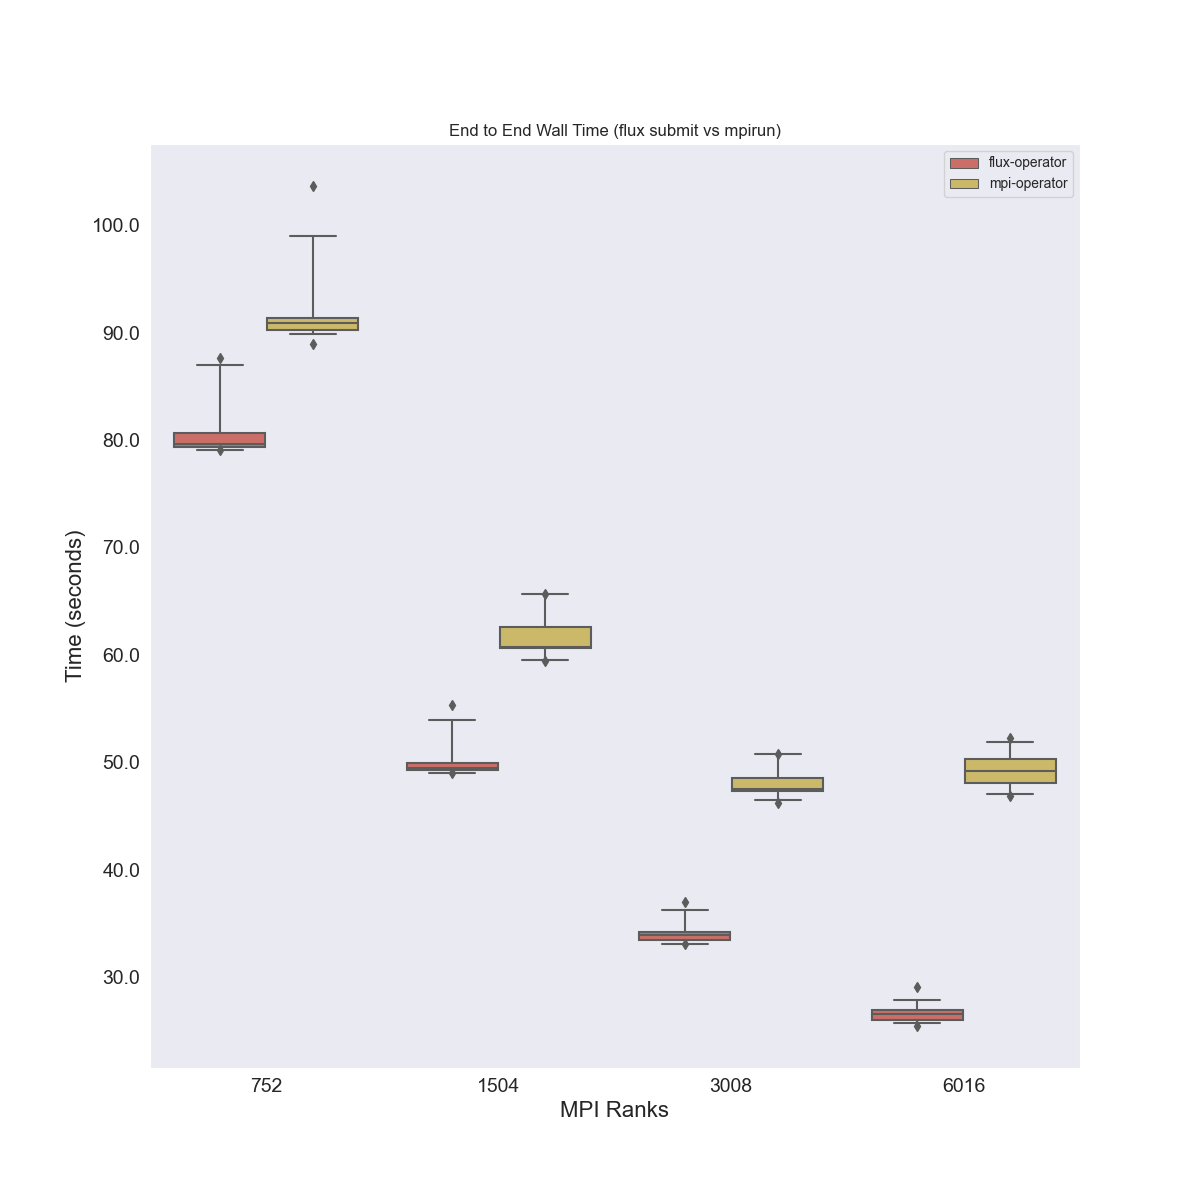
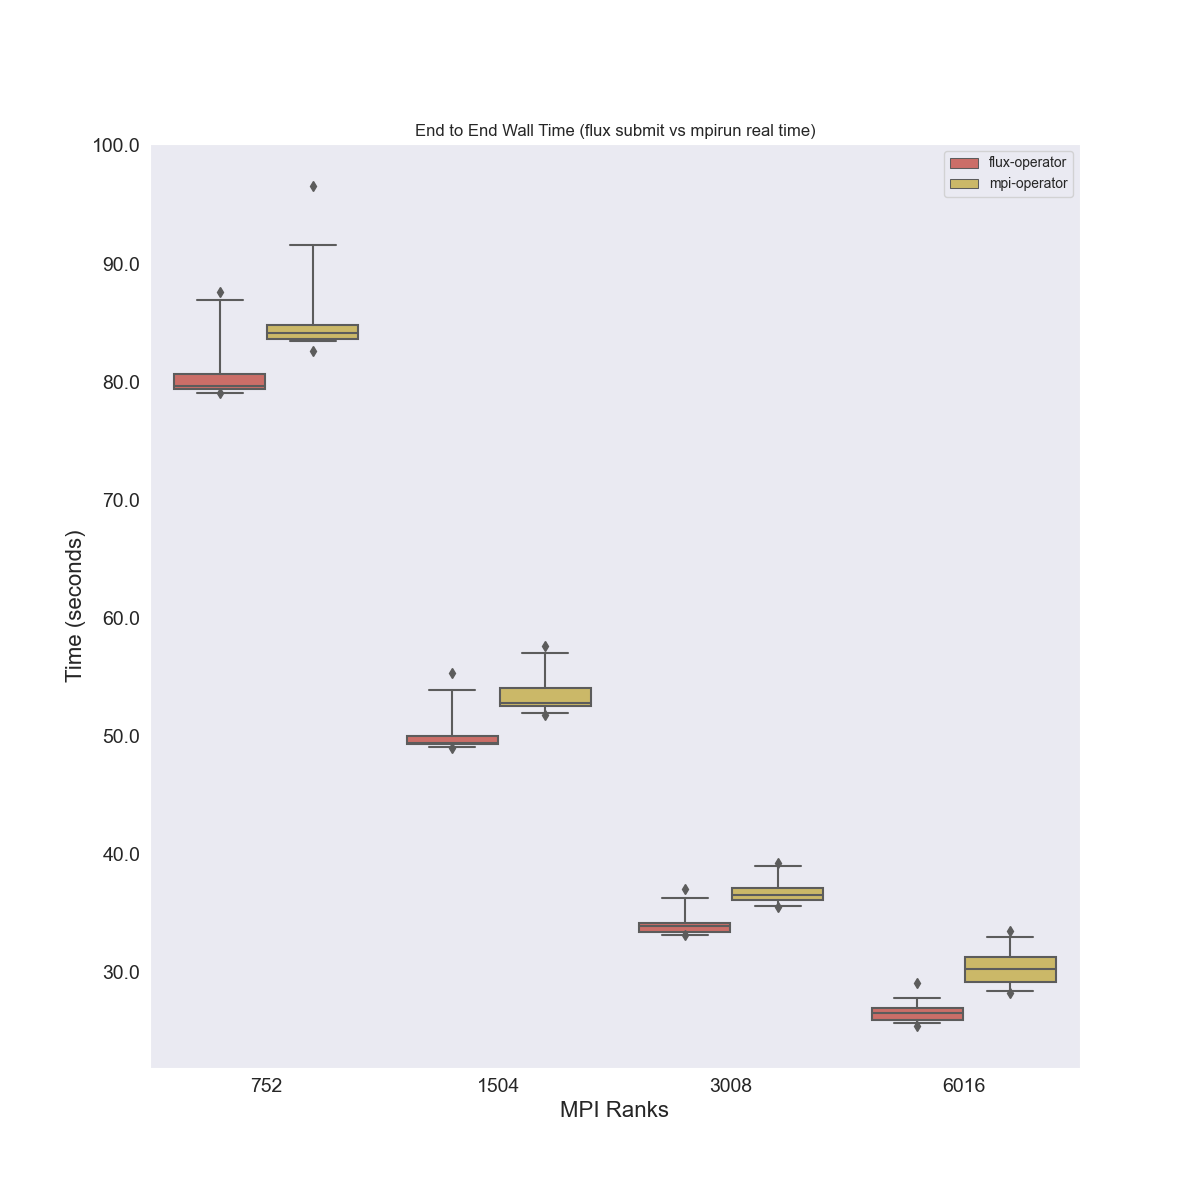
update plots!
note that the runtime reported from the script is off,
so we use the real time (reported by the wrapped time command)
instead.

diff --git a/aws/lammps/kubecon/run6/plot_results.py b/aws/lammps/kubecon/run6/plot_results.py
@@ -146,9 +146,9 @@ def plot_outputs(raw, mpi_operator, plotname, ext="pdf", outdir="img"):
             item["pods"],  # this is the mpi operator cluster size
             f"mpi-operator-{item['pods']}",
             # This end to end time is different - it contains pod creations I think?
-            item["end_to_end_time"],
-            item["end_to_end_time"],
-            item["lammps_time"],
+            item["real"],            # The real time here is for mpirun, we compare to flux submit
+            item["end_to_end_time"], # This is akin to getting all the workers orchestrated, the full time of the mpi operator
+            item["lammps_time"],     # for flux this is total_wall_time_seconds (from lammps)
             item["ranks"],
             item["timesteps/s"],
             "mpi-operator",
@@ -176,7 +176,7 @@ def plot_outputs(raw, mpi_operator, plotname, ext="pdf", outdir="img"):
     # Let's make a plot that shows distributions of the times by the cluster size, across all
     make_plot(
         df,
-        title="End to End Wall Time (flux submit vs mpirun)",
+        title="End to End Wall Time (flux submit vs mpirun real time)",
         tag="end_to_end_walltime_fluxsubmit",
         ydimension="fluxsubmit_time",
         palette=palette,
@@ -188,7 +188,7 @@ def plot_outputs(raw, mpi_operator, plotname, ext="pdf", outdir="img"):
     )
     make_plot(
         df,
-        title="End to End Wall Time (flux start vs mpirun)",
+        title="End to End Wall Time (flux start vs MPI operator end-to-end)",
         tag="end_to_end_walltime_fluxstart",
         ydimension="fluxstart_time",
         palette=palette,

diff --git a/aws/lammps/kubecon/run6/mpi-operator/run_experiments.py b/aws/lammps/kubecon/run6/mpi-operator/run_experiments.py
@@ -207,6 +207,8 @@ def get_operator_logs(client, app_name, start_time, job_id, log_file):
                     break
 
     startup_time_s = (startup_time - start_time).total_seconds()
+
+    # Note that this isn't right - it will report the last reported MPIJobRunning
     run_time_s = (end_time - startup_time).total_seconds()
     end_to_end_time_s = (end_time - start_time).total_seconds()
     log_output = (

diff --git a/aws/lammps/kubecon/run6/mpi-operator/process_lammps_canopie22.py b/aws/lammps/kubecon/run6/mpi-operator/process_lammps_canopie22.py
@@ -101,6 +101,8 @@ def gather_outputs(outdir):
             results["scheduler"].append(sched)
             results["ranks"].append(nranks)
             results["startup_time"].append(startup)
+            
+            # Note that this value is incorrect!
             results["runtime"].append(runtime)
             results["end_to_end_time"].append(e_to_e)
             results["max_ppn"].append(ppn_max)

diff --git a/aws/lammps/kubecon/run6/README.md b/aws/lammps/kubecon/run6/README.md
@@ -192,17 +192,19 @@ that the submit also adds some overhead as we are scaling.
 Now for the fun plots! We can compare how the Flux Operator vs. the MPI
 Operator run lammps.
 
-##### End to End Walltime Flux vs mpirun
+##### Flux Submit vs. MPIrun real time
 
-We can compare each of flux start and flux submit to mpirun, and it doesn't matter,
-because the slower of the two (flux start) is faster. Here are the two comparisons:
+We record the `real` time of the mpirun command, and we compare this with flux submit.
 
-![img/end_to_end_walltime_fluxstart_lammps.png](img/end_to_end_walltime_fluxstart_lammps.png)
 ![img/end_to_end_walltime_fluxsubmit_lammps.png](img/end_to_end_walltime_fluxsubmit_lammps.png)
 
-Technically speaking, I think the flux submit is comparable to the mpirun, and if
-we wanted an equivalent metric for the MPI Operator for flux start we would need to
-look at some time from the launcher. These plots I think are really interesting because
+##### Flux Start vs MPI Operator end-to-end time
+
+We can compare Flux start with the MPI operator end-to-end time. Both require the pods to go up (be ready)
+and then finish up.
+
+![img/end_to_end_walltime_fluxstart_lammps.png](img/end_to_end_walltime_fluxstart_lammps.png)
+
 in previous experiments, the MPI operator seemed to scale OK up to 3008 ranks.
 However here we see that with 64 ranks, it actually starts to level out (and we could
 hypothesize the downward trend has stopped - it takes the same amount of time to
